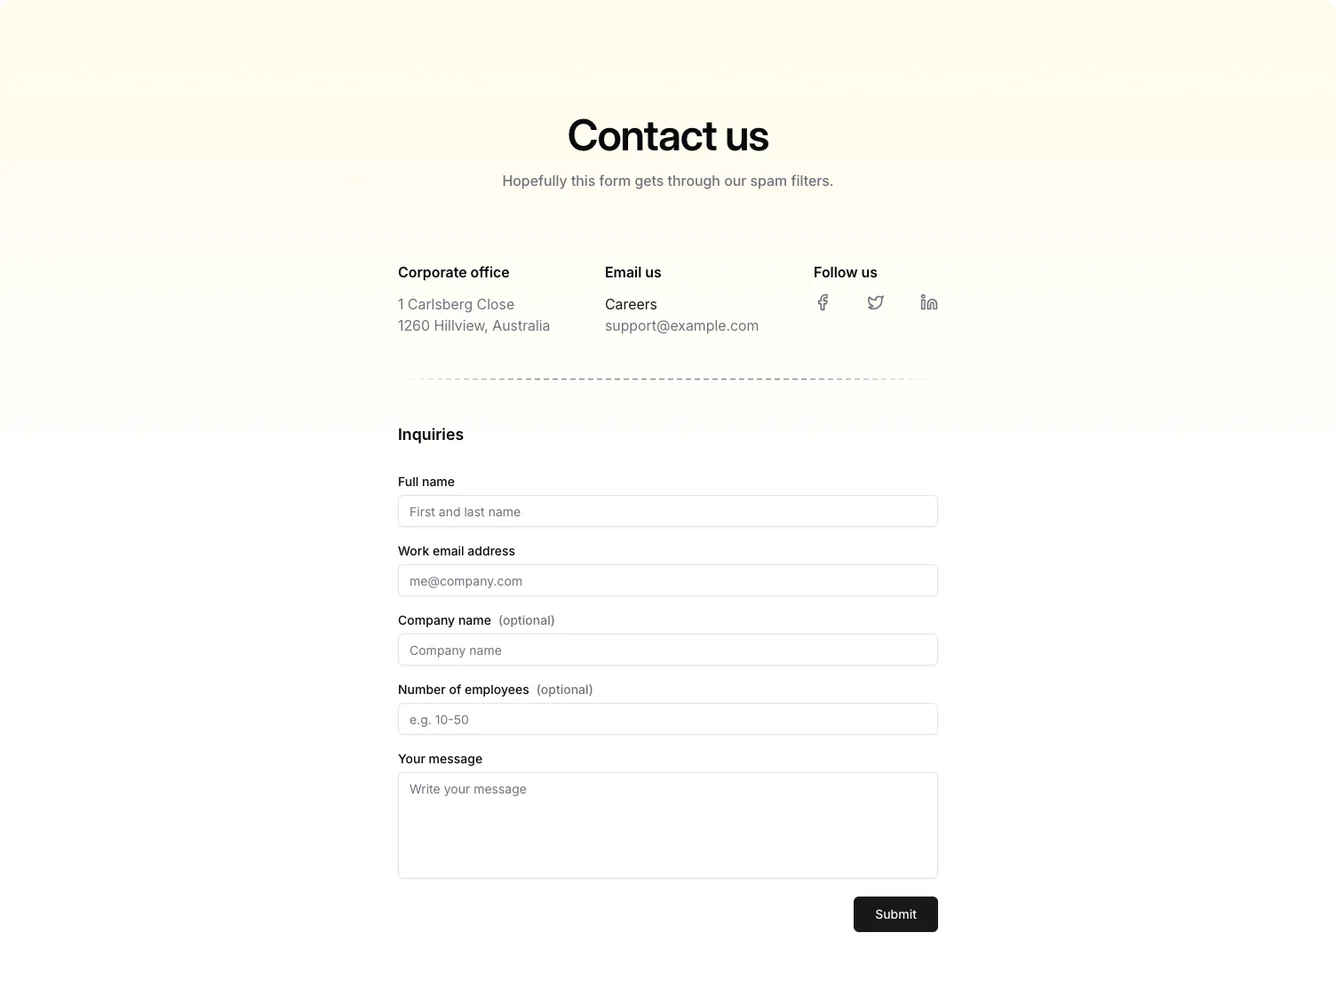
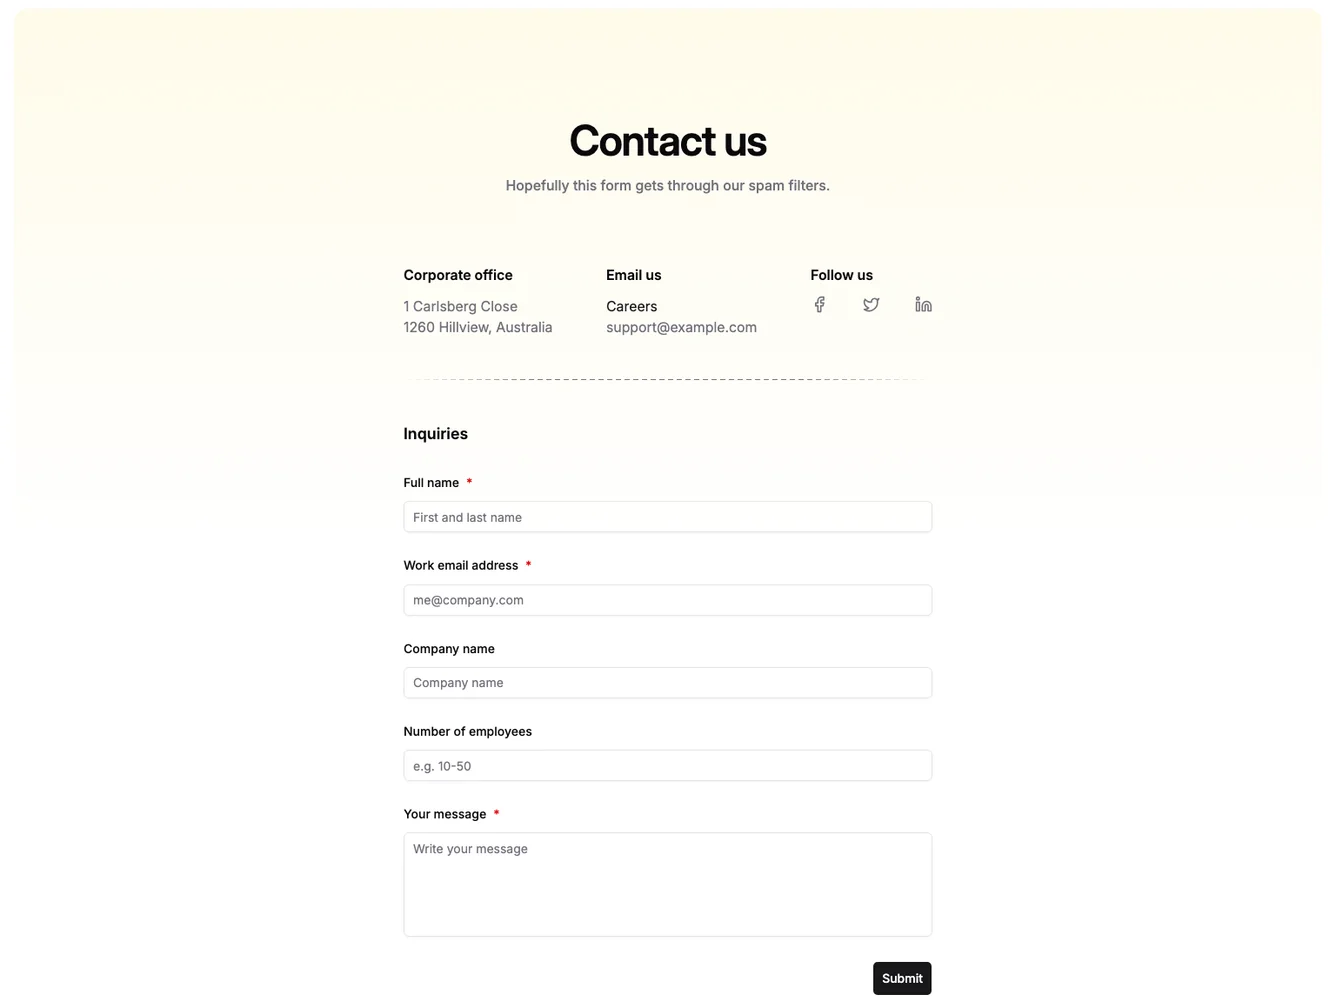
feat(blocks): add Contact block variant contact10

diff --git a/src/blocks/Contact/contact10.tsx b/src/blocks/Contact/contact10.tsx
@@ -1,0 +1,109 @@
+import { Icon } from '@/components/Icon'
+import RichText from '@/components/RichText'
+import { RenderBlocks } from '@/blocks/RenderBlocks'
+import type { ContactBlock } from '@/payload-types'
+import { PublicContextProps } from '@/utilities/publicContextProps'
+import { cn } from '@/utilities/ui'
+
+interface DashedLineProps {
+  orientation?: 'horizontal' | 'vertical'
+  className?: string
+}
+
+const DashedLine = ({ orientation = 'horizontal', className }: DashedLineProps) => {
+  const isHorizontal = orientation === 'horizontal'
+
+  return (
+    <div
+      className={cn(
+        'text-muted-foreground relative',
+        isHorizontal ? 'h-px w-full' : 'h-full w-px',
+        className,
+      )}
+    >
+      <div
+        className={cn(
+          isHorizontal
+            ? [
+                'h-px w-full',
+                'bg-[repeating-linear-gradient(90deg,transparent,transparent_4px,currentColor_4px,currentColor_10px)]',
+                '[mask-image:linear-gradient(90deg,transparent,black_25%,black_75%,transparent)]',
+              ]
+            : [
+                'h-full w-px',
+                'bg-[repeating-linear-gradient(180deg,transparent,transparent_4px,currentColor_4px,currentColor_8px)]',
+                '[mask-image:linear-gradient(180deg,transparent,black_25%,black_75%,transparent)]',
+              ],
+        )}
+      />
+    </div>
+  )
+}
+
+const Contact10: React.FC<ContactBlock & { publicContext: PublicContextProps }> = ({
+  richText,
+  contactBlocks,
+  label1,
+  form,
+  publicContext,
+}) => {
+  return (
+    <section className="via-background to-background relative mx-2.5 mt-2.5 rounded-t-2xl rounded-b-[36px] bg-linear-to-b from-amber-50 py-32 lg:mx-4 dark:from-amber-950">
+      <div className="container max-w-2xl">
+        {richText && (
+          <RichText
+            publicContext={publicContext}
+            content={richText}
+            withWrapper={false}
+            overrideStyle={{
+              h1: 'text-center text-4xl font-semibold tracking-tight lg:text-5xl',
+              h2: 'text-center text-3xl font-semibold tracking-tight lg:text-4xl',
+              p: 'text-muted-foreground mt-4 text-center leading-snug font-medium lg:mx-auto',
+            }}
+          />
+        )}
+
+        {Array.isArray(contactBlocks) && contactBlocks.length > 0 && (
+          <div className="mt-10 flex justify-between gap-8 max-sm:flex-col md:mt-14 lg:mt-20 lg:gap-12">
+            {contactBlocks.map((block) => (
+              <div key={block.id}>
+                {block.icon && (
+                  <div className="mb-3">
+                    <Icon icon={block.icon} size={20} />
+                  </div>
+                )}
+                {block.description && (
+                  <RichText
+                    publicContext={publicContext}
+                    content={block.description}
+                    withWrapper={false}
+                    overrideStyle={{
+                      h2: 'font-semibold',
+                      h3: 'font-semibold',
+                      p: 'text-muted-foreground mt-3',
+                      a: 'text-muted-foreground hover:text-foreground',
+                    }}
+                  />
+                )}
+              </div>
+            ))}
+          </div>
+        )}
+
+        <DashedLine className="my-12" />
+
+        <div className="mx-auto">
+          {label1 && <h2 className="text-lg font-semibold">{label1}</h2>}
+
+          {form && form[0]?.form && (
+            <div className="mt-8">
+              <RenderBlocks blocks={form} publicContext={publicContext} disableContainer />
+            </div>
+          )}
+        </div>
+      </div>
+    </section>
+  )
+}
+
+export default Contact10

diff --git a/src/blocks/Contact/config.ts b/src/blocks/Contact/config.ts
@@ -11,7 +11,7 @@ import { FormBlock } from '../Form/config'
 import { backgroundColor } from '@/fields/color'
 import { icon } from '@/components/Icon/config'
 import { designVersionPreview } from '@/components/AdminDashboard/DesignVersionPreview/config'
-import { variantsToOptions } from '@/blocks/utils'
+import { applyVariantConditions, variantsToOptions } from '@/blocks/utils'
 import { variants } from './variants'
 
 export type ContactDesignVersion = keyof typeof variants
@@ -75,5 +75,13 @@ export const ContactBlock: Block = {
       blocks: [FormBlock],
       maxRows: 1,
     },
+
+    ...applyVariantConditions(variants, [
+      {
+        name: 'label1',
+        type: 'text',
+        localized: true,
+      },
+    ]),
   ],
 }

diff --git a/src/blocks/Contact/Component.tsx b/src/blocks/Contact/Component.tsx
@@ -10,9 +10,10 @@ type Contact<T extends string = string> = Required<Record<ContactDesignVersion, 
 
 const contact: Contact = {
   CONTACT1: Contact1,
-  CONTACT3: Contact3,
   CONTACT2: Contact2,
+  CONTACT3: Contact3,
   CONTACT4: Contact4,
+  CONTACT10: Contact10,
 }
 
 export const ContactBlock: React.FC<any> = (props) => {

diff --git a/src/blocks/Contact/variants.ts b/src/blocks/Contact/variants.ts
@@ -23,4 +23,9 @@ export const variants: VariantManifest = {
     previewImage: '/admin/previews/contact/contact4.webp',
     fields: [],
   },
+  CONTACT10: {
+    label: 'CONTACT10',
+    previewImage: '/admin/previews/contact/contact10.webp',
+    fields: ['label1'],
+  },
 }
